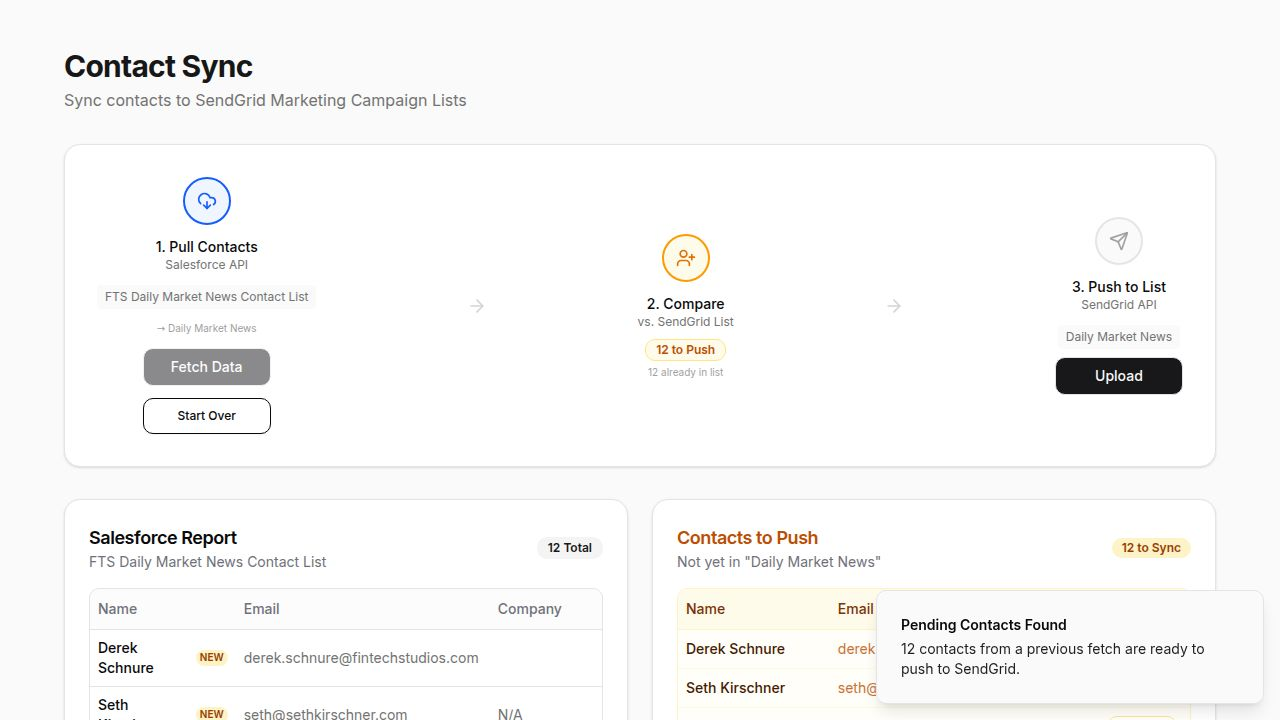
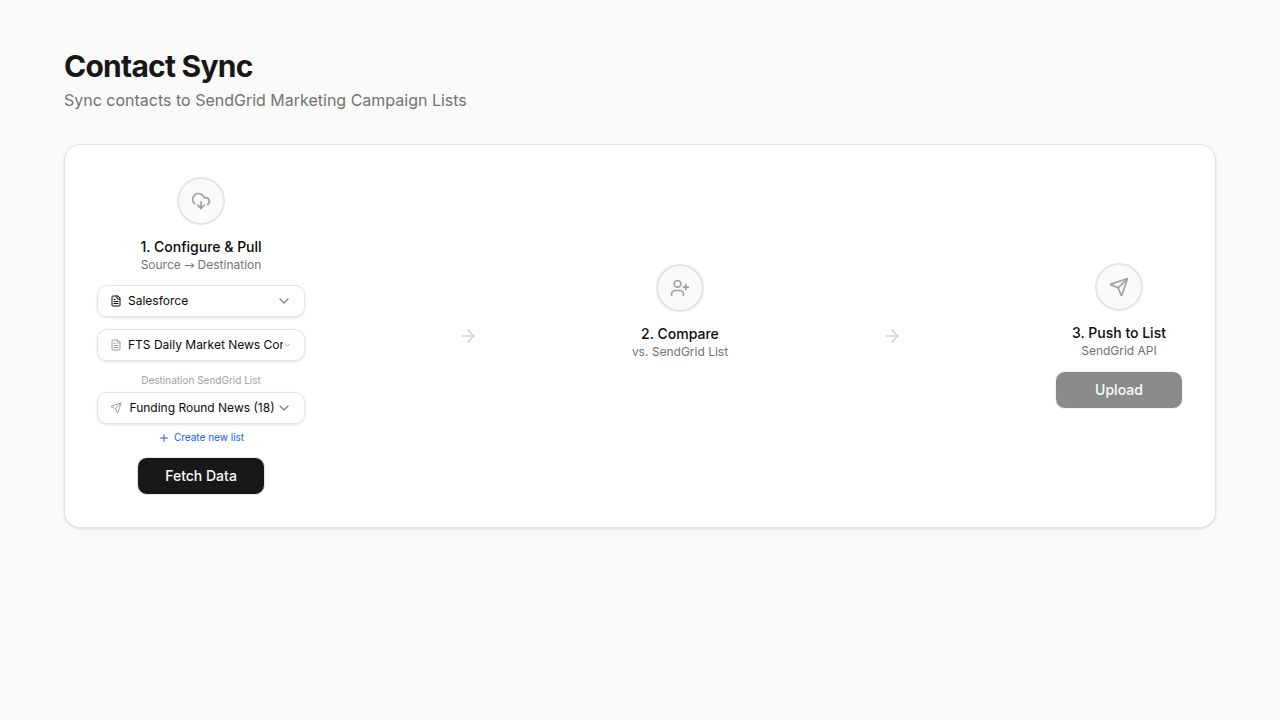
Add persistent pairings between selected sources and destination lists
Implement local storage to save and automatically restore SendGrid destination list pairings based on the selected Salesforce report or Mailchimp audience.

Replit-Commit-Author: Agent
Replit-Commit-Session-Id: 296cf119-fc4c-405c-9a4d-540bf7d5870f
Replit-Commit-Checkpoint-Type: full_checkpoint
Replit-Commit-Event-Id: 462668f0-ba63-47c9-9c83-dbaeb8693143
Replit-Commit-Screenshot-Url: https://storage.googleapis.com/screenshot-production-us-central1/1e73f96f-dbbb-4f02-a2d3-46e23e953987/296cf119-fc4c-405c-9a4d-540bf7d5870f/9XoVRvO
Replit-Helium-Checkpoint-Created: true

diff --git a/client/src/pages/Home.tsx b/client/src/pages/Home.tsx
@@ -1,4 +1,4 @@
-import { useState, useEffect, useRef } from "react";
+import { useState, useEffect, useRef, useCallback } from "react";
 import type { Contact, PullResult, SendGridList, ConfigStatus, SalesforceReport, MailchimpAudience } from "@/lib/mock-data";
 import { Button } from "@/components/ui/button";
 import { Card, CardContent, CardDescription, CardHeader, CardTitle } from "@/components/ui/card";
@@ -14,6 +14,25 @@ type SyncStep = "idle" | "fetching" | "analyzing" | "ready" | "uploading" | "com
 type ContactToSync = { firstName: string; lastName: string; email: string; company: string };
 
 type DataSource = "salesforce" | "mailchimp";
+
+const PAIRINGS_STORAGE_KEY = "source-destination-pairings";
+
+function loadPairings(): Record<string, string> {
+  try {
+    const parsed = JSON.parse(localStorage.getItem(PAIRINGS_STORAGE_KEY) || "{}");
+    return parsed && typeof parsed === "object" && !Array.isArray(parsed) ? parsed : {};
+  } catch { return {}; }
+}
+
+function savePairing(sourceKey: string, listId: string) {
+  const pairings = loadPairings();
+  pairings[sourceKey] = listId;
+  localStorage.setItem(PAIRINGS_STORAGE_KEY, JSON.stringify(pairings));
+}
+
+function getSourceKey(dataSource: DataSource, sourceId: string): string {
+  return `${dataSource}:${sourceId}`;
+}
 
 export default function Home() {
   const { toast } = useToast();
@@ -79,6 +98,24 @@ export default function Home() {
     }
   }, [configStatus?.mailchimp]);
 
+  const applyPairing = useCallback((source: DataSource, sourceId: string, lists?: SendGridList[]) => {
+    if (!sourceId) return;
+    const key = getSourceKey(source, sourceId);
+    const pairings = loadPairings();
+    const pairedListId = pairings[key];
+    const availableLists = lists || sendGridLists;
+    if (pairedListId && availableLists.some((l) => l.id === pairedListId)) {
+      setSelectedListId(pairedListId);
+    } else if (availableLists.length > 0) {
+      setSelectedListId(availableLists[0].id);
+    }
+  }, [sendGridLists]);
+
+  useEffect(() => {
+    const sourceId = dataSource === "mailchimp" ? selectedAudienceId : selectedReportId;
+    applyPairing(dataSource, sourceId);
+  }, [dataSource, selectedReportId, selectedAudienceId, applyPairing]);
+
   useEffect(() => {
     if (configStatus?.sendgrid) {
       fetch("/api/sendgrid/lists")
@@ -86,7 +123,15 @@ export default function Home() {
         .then((data) => {
           if (Array.isArray(data)) {
             setSendGridLists(data);
-            if (!selectedListId && data.length > 0) setSelectedListId(data[0].id);
+            const sourceId = dataSource === "mailchimp" ? selectedAudienceId : selectedReportId;
+            const key = getSourceKey(dataSource, sourceId);
+            const pairings = loadPairings();
+            const pairedListId = pairings[key];
+            if (pairedListId && data.some((l: SendGridList) => l.id === pairedListId)) {
+              setSelectedListId(pairedListId);
+            } else if (data.length > 0) {
+              setSelectedListId(data[0].id);
+            }
           }
         })
         .catch(() => {});
@@ -140,6 +185,11 @@ export default function Home() {
     const currentSourceName = dataSource === "mailchimp" ? selectedAudienceName : selectedReportName;
     setFetchedSource(currentSource);
     setFetchedSourceName(currentSourceName);
+
+    const sourceId = currentSource === "mailchimp" ? selectedAudienceId : selectedReportId;
+    if (sourceId && selectedListId) {
+      savePairing(getSourceKey(currentSource, sourceId), selectedListId);
+    }
 
     try {
       let url: string;
